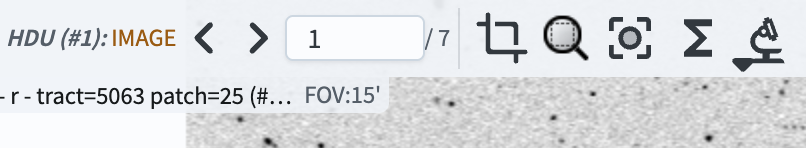
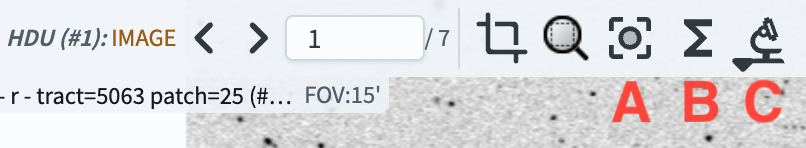
Edits in response to review

Changed region(s): [[0.8375, 0.5405, 0.9926, 0.8378], [0.7444, 0.5405, 0.8065, 0.8378]]

diff --git a/docs/tutorials/portal/105/portal-105-4.rst b/docs/tutorials/portal/105/portal-105-4.rst
@@ -8,7 +8,7 @@ For the Portal Aspect of the Rubin Science Platform at data.lsst.cloud.
 
 **Data Release:** DP2
 
-**Last verified to run:** 2026-09-28
+**Last verified to run:** 2026-10-06
 
 **Learning objective:** Use the selection tool in the Firefly image viewer.
 
@@ -43,7 +43,6 @@ This query will return all *r*-band deep coadd images that overlap coordinates R
 
 
 **2. Select a rectangular region of the image.**
-
 The "Select drop down" tool, which looks like a dashed open circle (labeled "A" in Figure 1), can be used to select a region of the image and perform operations on the selected region.
 
 Click on the select drop down, then choose "Rectangular Selection".
@@ -57,19 +56,17 @@ The "Recenter image" button is labeled "A" in Figure 2.
     :name: portal-105-4-1
     :alt: The buttons to access dropdown menus for color and image scaling.
 
-    Figure 1: The buttons to cycle through image planes in Firefly. They appear above the displayed image.
-
+    Figure 1: The buttons to access dropdown menus for color and image scaling.
 
 .. figure:: images/portal-105-4-2.png
     :width: 500
     :name: portal-105-4-2
     :alt: Rectangular selection tools.
 
-    Figure 2: The buttons to cycle through image planes in Firefly. They appear above the displayed image.
+    Figure 2: The tools that appear once a rectangular selection has been made on the image.
 
 
 **3. Extract statistics for the pixels in the selected region.**
-
 Click the button (labeled "B" in Figure 2) to "Show statistics for the selected area".
 A window displaying the pixel statistics within the selected rectangle will pop up.
 An example of a rectangular selection and the statistics window is shown in Figure 3.
@@ -77,29 +74,28 @@ An example of a rectangular selection and the statistics window is shown in Figu
 .. figure:: images/portal-105-4-3.png
     :width: 500
     :name: portal-105-4-3
-    :alt: Rectangular selection and stats.
+    :alt: An example of a rectangular selection and the statistics for the selected pixels.
 
-    Figure 3: The buttons to cycle through image planes in Firefly. They appear above the displayed image.
+    Figure 3: An example showing a rectangular region selected in an image, and the statistics for the selected pixels that appear when the statistics button is clicked.
 
 Mouse over each of the rows in the pop-up table, and note that an "x" appears at the position corresponding to each row's measurement.
 
 Close the statistics window.
 
 **4. Search for catalog objects in the selected region.**
-
 To search for catalog objects in the selected region, click the "Search this area" button that looks like a microscope (labeled "C" in Figure 2).
 In the drop-down, select "Search (cone) using TAP..." to search a DP2 table with the radius enclosed by the box.
 
 Clicking the search button will take you to the Catalog search view of the Portal, showing by default the Object table (others can be selected using the dropdown menus, as demonstrated in the 100-level Portal tutorials).
 Keep all of the default column selections and click Search (at the lower left).
 
-A catalog query results table will appear. In most cases, the display will show a lightcurve of the first object in the results table, as seen in Figure 12 (your display may show something slightly different, and have a different layout depending on what you have selected earlier).
+A catalog query results table will appear. In most cases, the display will show a lightcurve of the first object in the results table, as seen in Figure 4 (your display may show something slightly different, and have a different layout depending on what you have selected earlier).
 
 .. figure:: images/portal-105-4-4.png
     :name: portal-105-4-4
-    :alt: Cone search results.
+    :alt: Cone search results. The right half of the screen shows the Object table query results, and the left panel displays a light curve of the selected object from the ForcedSource table.
 
-    Figure 4: The buttons to cycle through image planes in Firefly. They appear above the displayed image.
+    Figure 4: The results of the catalog query performed by the cone search in Section 4. The right half of the screen shows the Object table query results, and the left panel displays a light curve of the selected object from the ForcedSource table.
 
 To return to a view of the HiPS map with the search results overlaid, click the "Coverage" button at the upper left.
 
@@ -112,6 +108,6 @@ The objects from the search result will now be highlighted as in Figure 5 (the s
     :name: portal-105-4-5
     :alt: Cone search results overlaid on image.
 
-    Figure 5: The buttons to cycle through image planes in Firefly. They appear above the displayed image.
+    Figure 5: A zoomed in view of a small portion of the deep coadd image, with small magenta markers overlaid at the positions of the catalog objects returned by the cone search.
 
 Note: the crop tool that appears when a selection is made is not currently functional. One should use the cutout tool instead to get a cutout image. Additionally, the zoom tool in that menu will zoom to the selected area, but then make the select tool inactive. If you want to perform additional operations on the selected area, you will need to select it again.

diff --git a/docs/tutorials/portal/105/portal-105-2.rst b/docs/tutorials/portal/105/portal-105-2.rst
@@ -8,7 +8,7 @@ For the Portal Aspect of the Rubin Science Platform at data.lsst.cloud.
 
 **Data Release:** DP2
 
-**Last verified to run:** 2026-09-29
+**Last verified to run:** 2026-10-06
 
 **Learning objective:** Use the components of the Firefly image viewer.
 
@@ -26,7 +26,7 @@ Rubin staff will respond to all questions posted there.
 **1. Execute an ADQL query for a deep coadd image.**
 Log in to the Portal Aspect, select the "DP1 & DP2 Images" tab and click on "Edit ADQL" at upper right.
 Enter the following ADQL statement and click "Search" at lower left.
-This query will return all *r*-band deep coadd images that overlap coordinates RA, Dec = 53.0, -28.0 degrees.
+This query will return a single *r*-band deep coadd image that overlaps coordinates RA, Dec = 53.0, -28.0 degrees.
 
 .. code-block:: SQL
 
@@ -74,10 +74,7 @@ The coadd image planes are:
 
 Notice that the background images are binned to lower resolution than the full images.
 
-**3. Change the orientation of the image.**
-
-Toggle the image plane view to return to the original deep coadd image.
-
+**3. Change the orientation of the image.** Toggle the image plane view to return to the original deep coadd image.
 Click the "Tools" drop-down and then the "rotate image" tool (labeled "A" in Figure 3) in the "Rotate/Flip" portion of the Tools menu.
 Rotate the image to an angle 135 degrees East of North by either using the slider or manually entering 135 in the box.
 The result should appear as in Figure 4.
@@ -110,7 +107,6 @@ Now click on the "flip" button (labeled "C" in Figure 3) to flip the image in th
 To return to the original view, click the "Restore to the defaults" button in the Tools menu (labeled "D" in Figure 3).
 
 **4. Change the color map and image scaling.**
-
 The color map used to display the image can be changed by clicking the "Color drop down" icon that looks like a painter's palette (labeled "A" in Figure 6).
 Click the Color drop down and change the color mapping by clicking one of the options (as in Figure 7; the example selected there is the "plasma" colorbar).
 Notice that there is a "reverse" option to the right of each colorbar.
@@ -140,7 +136,7 @@ Click the stretch drop down to reveal the options as seen in Figure 8.
     :name: portal-105-2-8
     :alt: The stretch options.
 
-    Figure 8: The buttons to cycle through image planes in Firefly. They appear above the displayed image.
+    Figure 8: The color stretch drop down menu, showing 11 preset options as well as the "Color stretch..." choice for customizing the stretch.
 
 Change the stretch to "Z Scale Linear Stretch". Then change it to "Z Scale Asinh Stretch". The results should look like those seen in Figure 9.
 
@@ -148,6 +144,6 @@ Change the stretch to "Z Scale Linear Stretch". Then change it to "Z Scale Asinh
     :name: portal-105-2-9
     :alt: Z Scale linear vs. Z Scale Asinh stretch.
 
-    Figure 9: The buttons to cycle through image planes in Firefly. They appear above the displayed image.
+    Figure 9: A zoomed-in region of the same image, but with different stretches applied. The image on the left uses the "Z Scale Linear" stretch, and the one on the right uses "Z Scale Asinh".
 
 By clicking the "Color stretch..." button in the stretch drop down, the stretch parameters and type can be manually controlled using the widget that will appear.

diff --git a/docs/tutorials/portal/105/portal-105-3.rst b/docs/tutorials/portal/105/portal-105-3.rst
@@ -8,7 +8,7 @@ For the Portal Aspect of the Rubin Science Platform at data.lsst.cloud.
 
 **Data Release:** DP2
 
-**Last verified to run:** 2026-09-29
+**Last verified to run:** 2026-10-06
 
 **Learning objective:** Add overlays to images displayed in Firefly.
 
@@ -58,7 +58,7 @@ Click the "Tools" icon (A in Figure 1) to open the drop-down menu, then mouse-ov
 **4. Add a compass.**
 Click the "Compass" icon (the north-east arrow; C in Figure 1).
 A compass will appear on the image.
-Change its color to purple by clicking the "Layers" icon (B in Figure 1), and in the pop-up window (Figure 2) clicking "Color" to the right of "North Arrow", and selecting purple.
+Change its color to purple by clicking the "Overlays" icon (labeled B in Figure 1), and in the pop-up window (Figure 2) clicking "Color" to the right of "North Arrow", and selecting purple.
 
 **5. Add a coordinate grid.**
 Click the "Grid" icon (D in Figure 1) to display the coordinate grid on the image.
@@ -70,9 +70,9 @@ In the "Layers" pop-up window, check "Offset Calculation" under "Distance Tool",
 
 **7. Add a mask.**
 To display image mask planes, do not use the "Mask" icon (F in Figure 1), which does not work properly with Rubin images.
-Instead, click the "Layers" icon (B in Figure 1), and then click "Enable" in the lower-left corner next to where it says "Mask Layer found" (see Figure 2).
-A list of many mask planes will appear, starting with "BAD," "SAT," "INTRP," "CR," "EDGE," and so on.
-Click the toggle next to "bit # 5 - DETECTED" to display the mask for all pixels that are part of detected objects.
+Instead, click the "Overlays" icon (B in Figure 1), and then click "Enable" in the lower-left corner next to where it says "Mask Layer found" (see Figure 2).
+A list of many mask planes will appear, starting with "NO_DATA," "INTERPOLATED," "COSMIC_RAY," "SATURATED," "DETECTION_EDGE," and so on.
+Click the toggle next to "bit # 7 - DETECTED" to display the mask for all pixels that are part of detected objects.
 At the right side, change the color of this mask plane to green by clicking on the "Color" button and selecting green.
 Turn the DETECTED mask display off by clicking the toggle at the left side.
 

diff --git a/docs/tutorials/portal/105/portal-105-5.rst b/docs/tutorials/portal/105/portal-105-5.rst
@@ -8,7 +8,7 @@ For the Portal Aspect of the Rubin Science Platform at data.lsst.cloud.
 
 **Data Release:** DP2
 
-**Last verified to run:** 2026-09-29
+**Last verified to run:** 2026-10-06
 
 **Learning objective:** Extract pixel values from an image with Firefly (e.g., line profiles, apertures).
 

diff --git a/docs/tutorials/portal/105/portal-105-1.rst b/docs/tutorials/portal/105/portal-105-1.rst
@@ -8,7 +8,7 @@ For the Portal Aspect of the Rubin Science Platform at data.lsst.cloud.
 
 **Data Release:** DP2
 
-**Last verified to run:** 2026-09-29
+**Last verified to run:** 2026-10-06
 
 **Learning objective:** Navigate the multi-panel interface for image data results.
 
